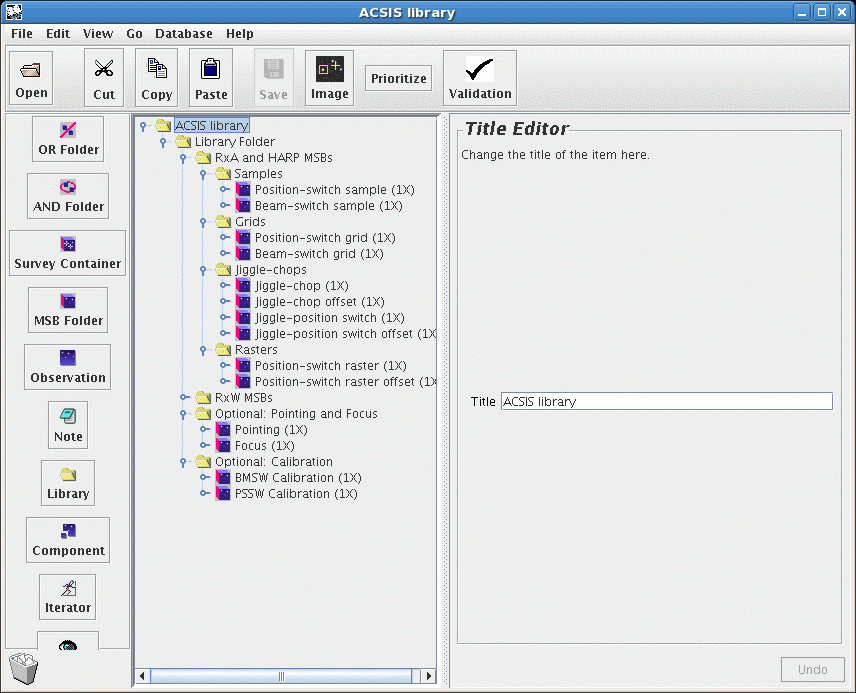
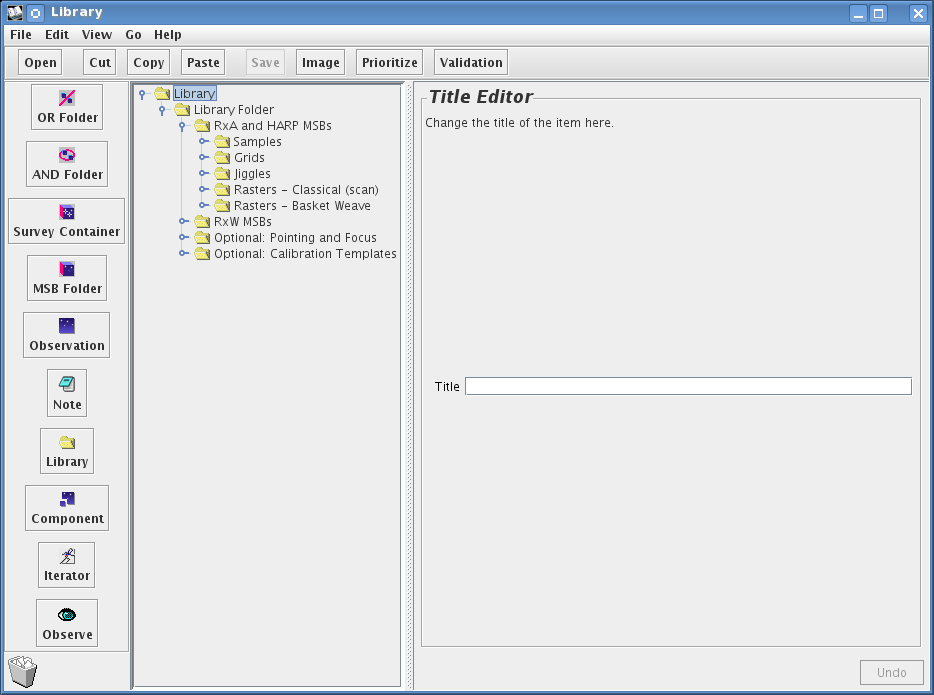
Updating Gerneral introduction to creating an MSB
updating images and text to provide an overview
independent to SCUBA-2 and  ACSIS MSBs examples.

diff --git a/Generic.html b/Generic.html
@@ -33,7 +33,8 @@ installation page</a> &mdash; make sure you have downloaded the latest version!)
 <p>
 You will see two windows pop up. One has a colour picture of the
 telescope - that is the JCMT root window. You can use its menus to
-open and save files and fetch programs from our database. 
+open and save files, access the MSB libraries for both ACSIS and SCUBA-2,
+and fetch programs from our database. 
 
 
 <img src="images/root.png" width="281" height="248" class="figure" />
@@ -146,6 +147,34 @@ you need to save your work.
 
 
 <h2 id="lib">The Library</h2>
+
+<p>
+A library containing commonly used MSBs can be found by by going to the JCMT
+root window: 
+</p>
+
+<p>
+<img src="images/root-menu.png" alt="The MSB library" width="281" height="248" class="figure" />
+</p>
+
+<p>We can either click on the ACSIS library, in which case a new window
+will appear displaying a number of
+folders containing commonly used ACSIS MSBs:
+</p>
+
+<p>
+<img src="het_images/het_copy.png" alt="The ACSIS MSB library" class="figure" />
+</p>
+
+
+<p>or we can click on the SCUBA-2 library, in which case a new window
+will appear displaying a number of
+folders containing commonly used SCUBA-2 MSBs:
+</p>
+
+<p>
+<img src="s2-images/SCUBA2_copy.png" alt="The SC21 MSB library" class="figure" />
+</p>
 
 
 <h2 id="ele">Elements of an MSB</h2>
